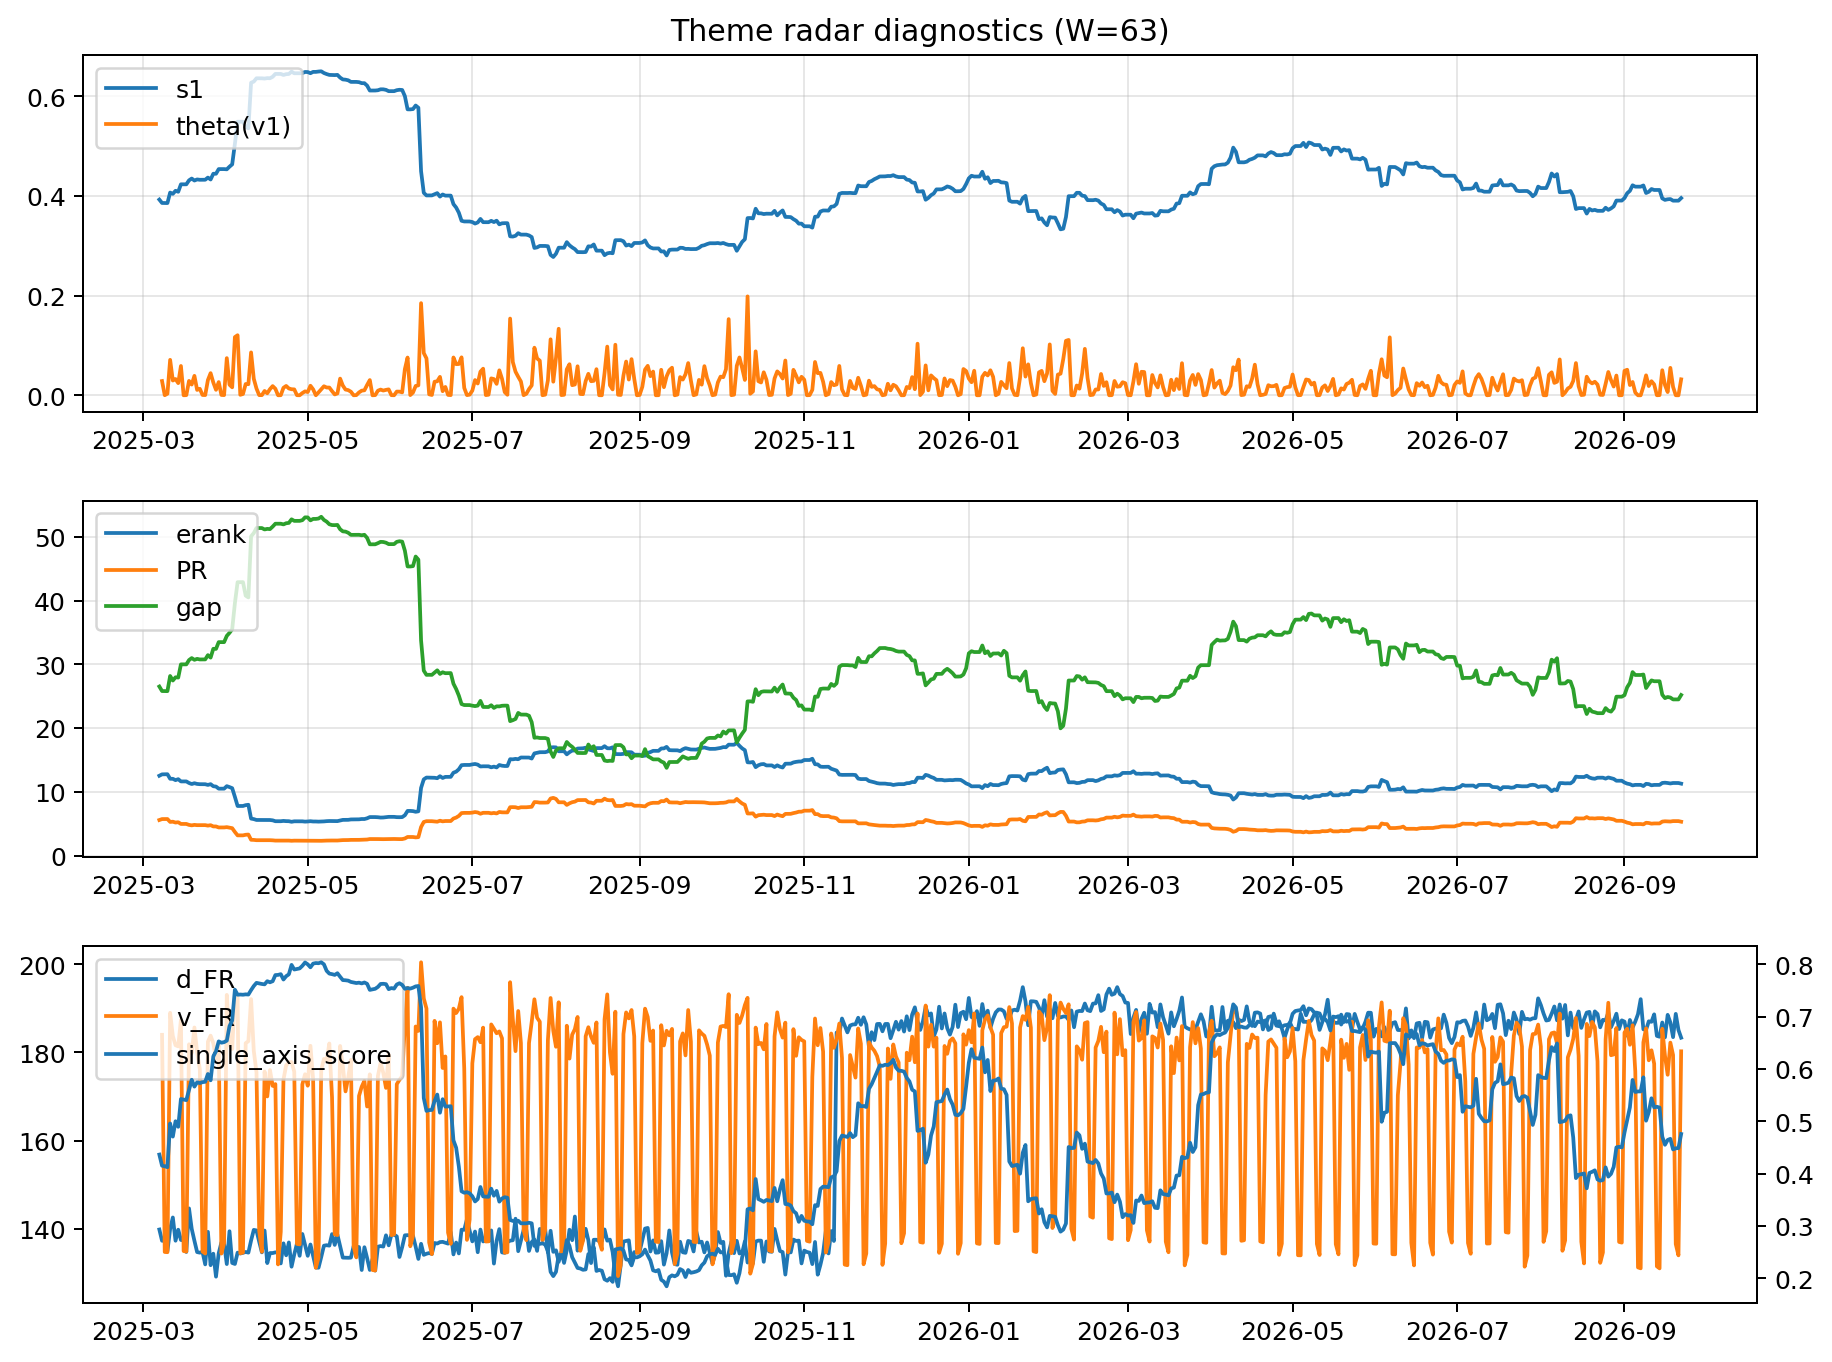
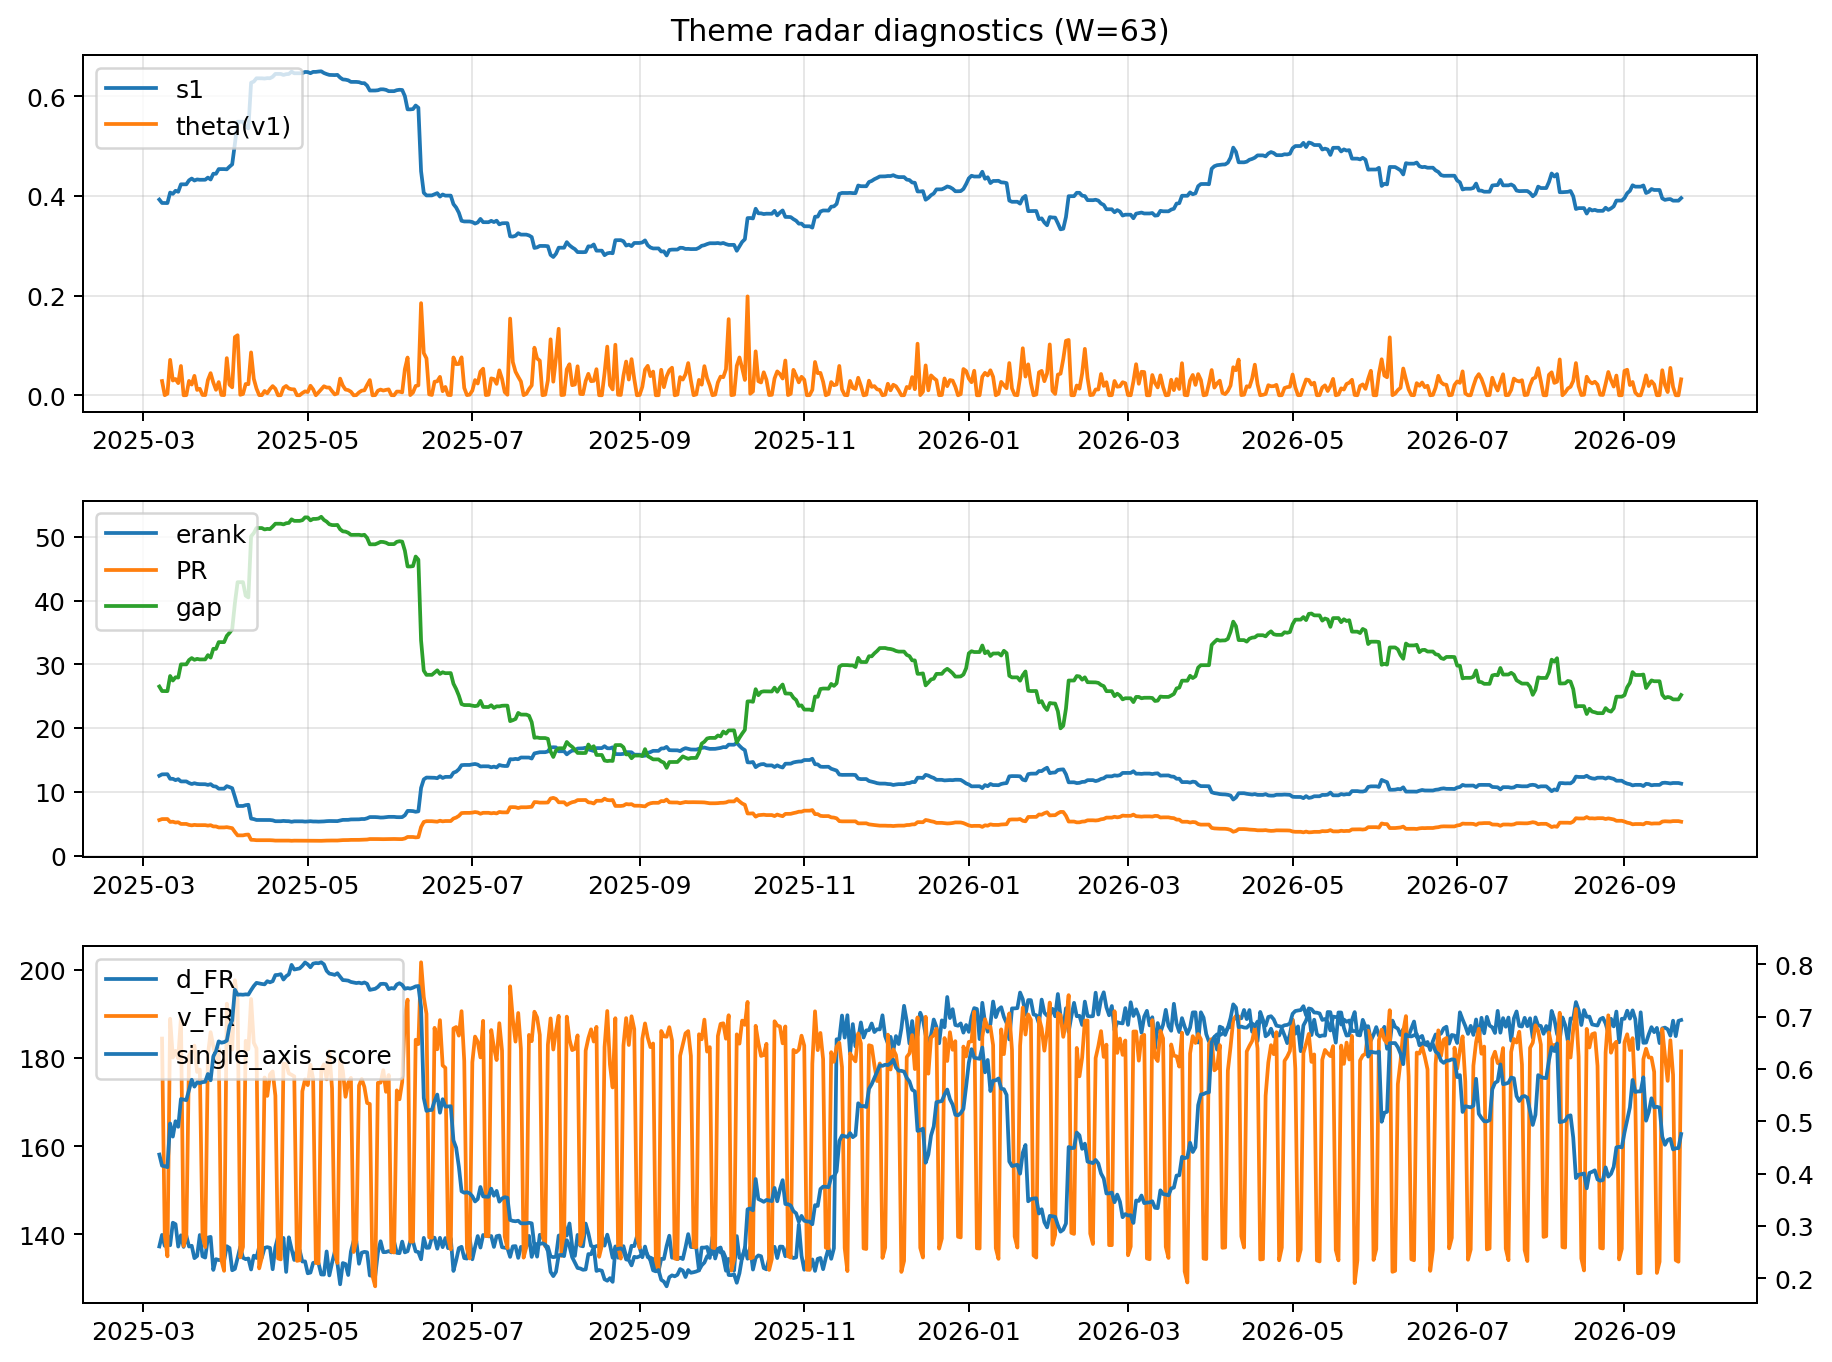
log: 2026-09-22 | sha256:fbb8054177bba72d8b4361fae08eed0c353f4c098693631eeee5026116377c91

diff --git a/logs/2026-09-22.md b/logs/2026-09-22.md
@@ -3,43 +3,43 @@
 ![diagnostic W63](../assets/diagnostic/2026-09-22_W63.png)
 
 ## Leaders (v1) — W=63
-- **Nuclear_Uranium** (0.0839272352069909)
-- Semis (0.0690833863508252)
-- Quantum (0.0636575092581337)
+- **Nuclear_Uranium** (0.0839272327950936)
+- Semis (0.0690833762070356)
+- Quantum (0.0636575113993777)
 
 ## Challengers — W=63
-**v2:** Rates (0.0899751981416537), Semis (0.0850995931778338), Genomics_Bio (0.0724492928486286)
-**v3:** Metals (0.0910604424550343), Genomics_Bio (0.0721857721496506), Crypto (0.0665059657731059)
+**v2:** Rates (0.0899750761452887), Semis (0.085099675685006), Genomics_Bio (0.0724493561728413)
+**v3:** Metals (0.0910604761973106), Genomics_Bio (0.0721858388683093), Crypto (0.0665060345213329)
 
 ## Migration (20D slope) — W=63
 **Top risers:**
-- axis_DataCenter_Infra: 0.0005698971798612
-- axis_Genomics_Bio: 0.0003055410505361
-- axis_MegaCap_AI: 0.0002060558887882
-- axis_Equity_US: 0.0001669806020542
-- axis_Robotics: 0.0001126926507024
-- axis_Quantum: 9.028161536410688e-05
-- axis_Sector_Materials: 8.887615900200433e-05
-- axis_Credit: 7.837528964359186e-05
-- axis_Space: 7.590240386075097e-05
-- axis_Grid_Power: 7.474102282598591e-05
+- axis_DataCenter_Infra: 0.0005698973221529
+- axis_Genomics_Bio: 0.0003055415353867
+- axis_MegaCap_AI: 0.0002060560892218
+- axis_Equity_US: 0.0001669809045702
+- axis_Robotics: 0.0001126928855544
+- axis_Quantum: 9.02823685566798e-05
+- axis_Sector_Materials: 8.887609722036325e-05
+- axis_Credit: 7.837375079487796e-05
+- axis_Space: 7.5902890780579e-05
+- axis_Grid_Power: 7.474157728791064e-05
 
 **Top fallers:**
-- axis_Defense: -0.0001092731532334
-- axis_Software_Cloud: -0.0001186338983119
-- axis_Metals: -0.000166520684491
-- axis_Sector_Health: -0.0001705692421586
-- axis_Sector_ConsStap: -0.000177841865808
-- axis_Sector_RealEstate: -0.0002159653006273
-- axis_Sector_Energy: -0.000272542224714
-- axis_Nuclear_Uranium: -0.0003021637081476
-- axis_Crypto: -0.000398491051814
-- axis_Cyber: -0.0004054334166305
+- axis_Defense: -0.0001092730856732
+- axis_Software_Cloud: -0.0001186334726337
+- axis_Metals: -0.0001665208496231
+- axis_Sector_Health: -0.0001705691943135
+- axis_Sector_ConsStap: -0.0001778418484366
+- axis_Sector_RealEstate: -0.0002159651941732
+- axis_Sector_Energy: -0.00027254227424
+- axis_Nuclear_Uranium: -0.0003021630994979
+- axis_Crypto: -0.0003984910130017
+- axis_Cyber: -0.0004054331322433
 
 ## Risk line (W=63)
-- s1: 0.3956207949794
-- theta_v1: 0.0320207317866386
-- v_FR: 180.2313105581468
+- s1: 0.3956208757231653
+- theta_v1: 0.0320207268177482
+- v_FR: 181.4966183874048
 - single_axis_score: 0.4757522123893805
 
 ## Interpretation
@@ -48,7 +48,7 @@
 - Action: Tomorrow watchlist: DataCenter_Infra, Genomics_Bio, MegaCap_AI, Equity_US, Robotics + v2_top1=Rates
 - Action: Hedge note: normal correlation stability.
 
-- Percentiles (W=63 history): vfr_pct=0.48, theta_pct=0.70, s1_pct=0.41, score_pct=0.45.
+- Percentiles (W=63 history): vfr_pct=0.55, theta_pct=0.70, s1_pct=0.41, score_pct=0.45.
 
 ---
[2 lines of base64/hex data omitted]
